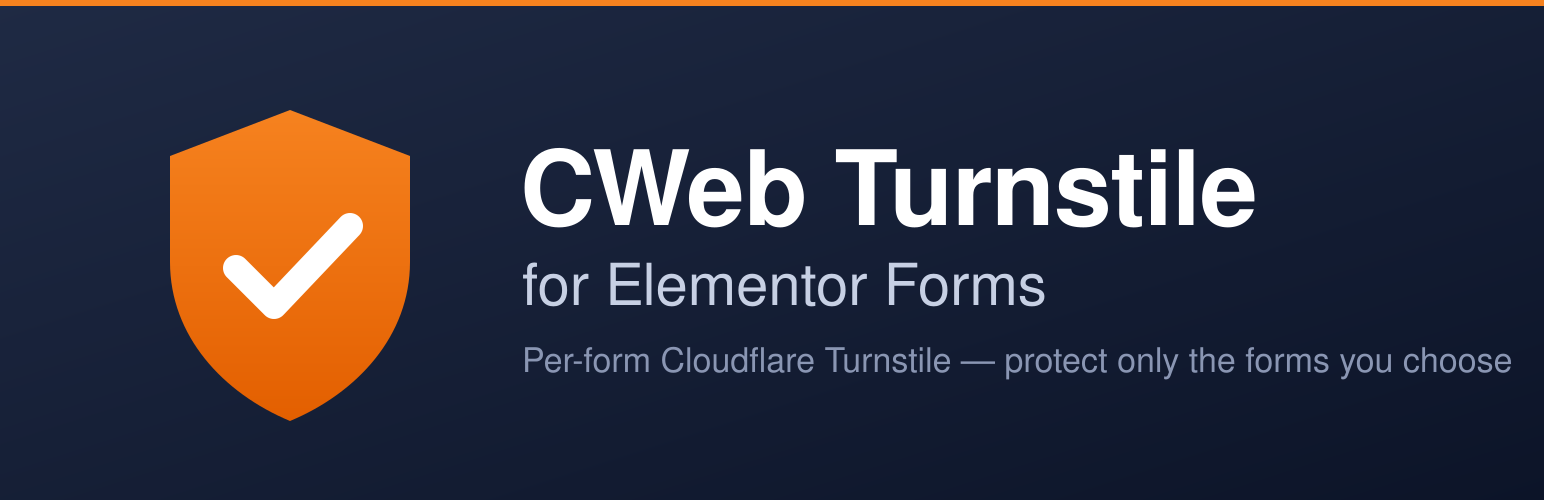
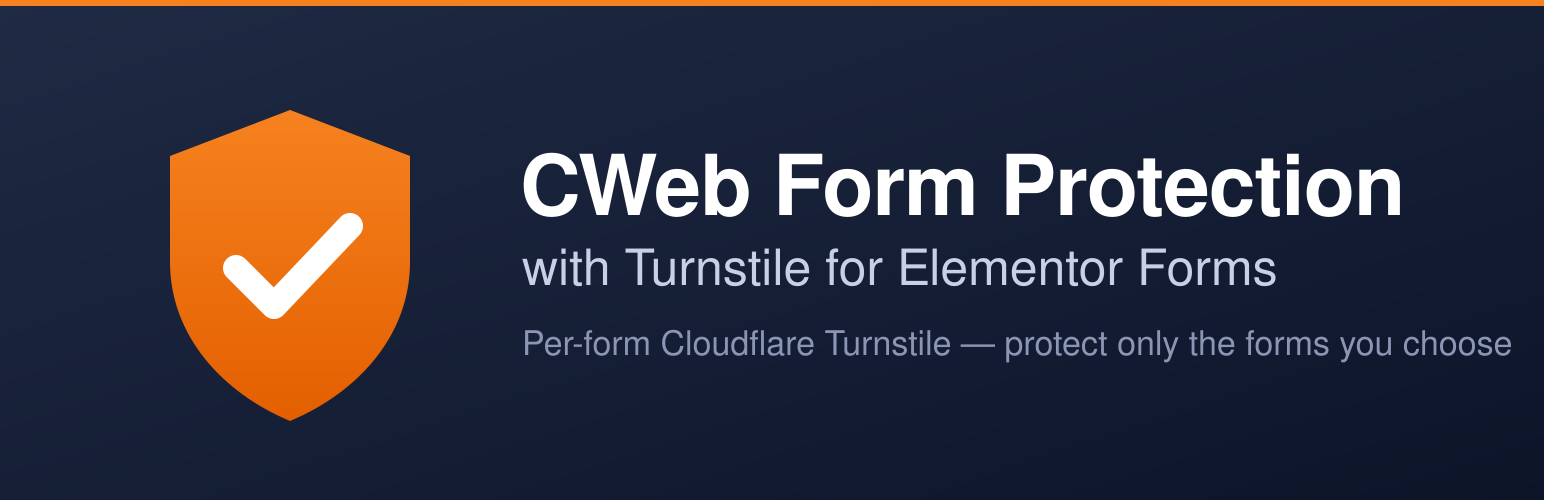
refactor: rename to "CWeb Form Protection with Turnstile for Elementor Forms"
WordPress.org pre-review (AUTOPREREVIEW) flagged the plugin name for leading
with the "Turnstile" trademark, which can suggest affiliation. Restructure so
the owned distinctive term leads and third-party names follow "with"/"for".

- name: CWeb Turnstile for Elementor Forms
        -> CWeb Form Protection with Turnstile for Elementor Forms
- slug / text domain / dir / main file / .pot
        -> cweb-form-protection-turnstile-elementor
- admin menu label -> "CWeb Form Protection"
- add "Requires Plugins: elementor" header (plugin/readme)
- rework WP.org banner wordmark to match the new structure

Internal CWebTS namespace and cwebts admin page slug kept (abbreviations,
outside the trademark scope). 52/52 tests pass; php -l clean.

Changed region(s): [[0.342, 0.3, 0.9326, 0.45], [0.342, 0.66, 0.9948, 0.75], [0.342, 0.48, 0.8394, 0.63]]

diff --git a/cweb-form-protection-turnstile-elementor/includes/class-settings.php b/cweb-form-protection-turnstile-elementor/includes/class-settings.php
@@ -40,7 +40,7 @@ class Settings {
 			'size'                 => 'flexible',
 			'appearance'           => 'always',
 			'language'             => 'auto',
-			'error_message'        => __( 'Please confirm you are not a robot.', 'cweb-turnstile-for-elementor-forms' ),
+			'error_message'        => __( 'Please confirm you are not a robot.', 'cweb-form-protection-turnstile-elementor' ),
 			'protect_login'        => 0,
 			'protect_register'     => 0,
 			'protect_lostpassword' => 0,
@@ -153,8 +153,8 @@ class Settings {
 	 */
 	public function add_menu() {
 		add_options_page(
-			__( 'CWeb Turnstile for Elementor Forms', 'cweb-turnstile-for-elementor-forms' ),
-			__( 'CWeb Turnstile', 'cweb-turnstile-for-elementor-forms' ),
+			__( 'CWeb Form Protection with Turnstile for Elementor Forms', 'cweb-form-protection-turnstile-elementor' ),
+			__( 'CWeb Form Protection', 'cweb-form-protection-turnstile-elementor' ),
 			self::CAP,
 			self::PAGE,
 			array( $this, 'render_page' )
@@ -179,47 +179,47 @@ class Settings {
 
 		add_settings_section(
 			'cwebts_keys',
-			__( 'Cloudflare Turnstile keys', 'cweb-turnstile-for-elementor-forms' ),
+			__( 'Cloudflare Turnstile keys', 'cweb-form-protection-turnstile-elementor' ),
 			array( $this, 'section_keys_intro' ),
 			self::PAGE
 		);
 
-		add_settings_field( 'site_key', __( 'Site key', 'cweb-turnstile-for-elementor-forms' ), array( $this, 'field_site_key' ), self::PAGE, 'cwebts_keys' );
-		add_settings_field( 'secret_key', __( 'Secret key', 'cweb-turnstile-for-elementor-forms' ), array( $this, 'field_secret_key' ), self::PAGE, 'cwebts_keys' );
+		add_settings_field( 'site_key', __( 'Site key', 'cweb-form-protection-turnstile-elementor' ), array( $this, 'field_site_key' ), self::PAGE, 'cwebts_keys' );
+		add_settings_field( 'secret_key', __( 'Secret key', 'cweb-form-protection-turnstile-elementor' ), array( $this, 'field_secret_key' ), self::PAGE, 'cwebts_keys' );
 
 		add_settings_section(
 			'cwebts_appearance',
-			__( 'Widget appearance', 'cweb-turnstile-for-elementor-forms' ),
+			__( 'Widget appearance', 'cweb-form-protection-turnstile-elementor' ),
 			'__return_false',
 			self::PAGE
 		);
 
-		add_settings_field( 'theme', __( 'Theme', 'cweb-turnstile-for-elementor-forms' ), array( $this, 'field_theme' ), self::PAGE, 'cwebts_appearance' );
-		add_settings_field( 'size', __( 'Size', 'cweb-turnstile-for-elementor-forms' ), array( $this, 'field_size' ), self::PAGE, 'cwebts_appearance' );
-		add_settings_field( 'appearance', __( 'Visibility', 'cweb-turnstile-for-elementor-forms' ), array( $this, 'field_appearance' ), self::PAGE, 'cwebts_appearance' );
-		add_settings_field( 'language', __( 'Language', 'cweb-turnstile-for-elementor-forms' ), array( $this, 'field_language' ), self::PAGE, 'cwebts_appearance' );
-		add_settings_field( 'error_message', __( 'Error message', 'cweb-turnstile-for-elementor-forms' ), array( $this, 'field_error_message' ), self::PAGE, 'cwebts_appearance' );
+		add_settings_field( 'theme', __( 'Theme', 'cweb-form-protection-turnstile-elementor' ), array( $this, 'field_theme' ), self::PAGE, 'cwebts_appearance' );
+		add_settings_field( 'size', __( 'Size', 'cweb-form-protection-turnstile-elementor' ), array( $this, 'field_size' ), self::PAGE, 'cwebts_appearance' );
+		add_settings_field( 'appearance', __( 'Visibility', 'cweb-form-protection-turnstile-elementor' ), array( $this, 'field_appearance' ), self::PAGE, 'cwebts_appearance' );
+		add_settings_field( 'language', __( 'Language', 'cweb-form-protection-turnstile-elementor' ), array( $this, 'field_language' ), self::PAGE, 'cwebts_appearance' );
+		add_settings_field( 'error_message', __( 'Error message', 'cweb-form-protection-turnstile-elementor' ), array( $this, 'field_error_message' ), self::PAGE, 'cwebts_appearance' );
 
 		add_settings_section(
 			'cwebts_native',
-			__( 'WordPress forms', 'cweb-turnstile-for-elementor-forms' ),
+			__( 'WordPress forms', 'cweb-form-protection-turnstile-elementor' ),
 			array( $this, 'section_native_intro' ),
 			self::PAGE
 		);
 
-		add_settings_field( 'protect_login', __( 'Login form', 'cweb-turnstile-for-elementor-forms' ), array( $this, 'field_protect_login' ), self::PAGE, 'cwebts_native' );
-		add_settings_field( 'protect_register', __( 'Registration form', 'cweb-turnstile-for-elementor-forms' ), array( $this, 'field_protect_register' ), self::PAGE, 'cwebts_native' );
-		add_settings_field( 'protect_lostpassword', __( 'Lost password form', 'cweb-turnstile-for-elementor-forms' ), array( $this, 'field_protect_lostpassword' ), self::PAGE, 'cwebts_native' );
-		add_settings_field( 'protect_comments', __( 'Comment form', 'cweb-turnstile-for-elementor-forms' ), array( $this, 'field_protect_comments' ), self::PAGE, 'cwebts_native' );
+		add_settings_field( 'protect_login', __( 'Login form', 'cweb-form-protection-turnstile-elementor' ), array( $this, 'field_protect_login' ), self::PAGE, 'cwebts_native' );
+		add_settings_field( 'protect_register', __( 'Registration form', 'cweb-form-protection-turnstile-elementor' ), array( $this, 'field_protect_register' ), self::PAGE, 'cwebts_native' );
+		add_settings_field( 'protect_lostpassword', __( 'Lost password form', 'cweb-form-protection-turnstile-elementor' ), array( $this, 'field_protect_lostpassword' ), self::PAGE, 'cwebts_native' );
+		add_settings_field( 'protect_comments', __( 'Comment form', 'cweb-form-protection-turnstile-elementor' ), array( $this, 'field_protect_comments' ), self::PAGE, 'cwebts_native' );
 
 		add_settings_section(
 			'cwebts_advanced',
-			__( 'Advanced', 'cweb-turnstile-for-elementor-forms' ),
+			__( 'Advanced', 'cweb-form-protection-turnstile-elementor' ),
 			'__return_false',
 			self::PAGE
 		);
 
-		add_settings_field( 'failure_mode', __( 'If Cloudflare is unreachable', 'cweb-turnstile-for-elementor-forms' ), array( $this, 'field_failure_mode' ), self::PAGE, 'cwebts_advanced' );
+		add_settings_field( 'failure_mode', __( 'If Cloudflare is unreachable', 'cweb-form-protection-turnstile-elementor' ), array( $this, 'field_failure_mode' ), self::PAGE, 'cwebts_advanced' );
 	}
 
 	/**
@@ -378,7 +378,7 @@ class Settings {
 	 */
 	public function handle_import() {
 		if ( ! current_user_can( self::CAP ) ) {
-			wp_die( esc_html__( 'You are not allowed to do this.', 'cweb-turnstile-for-elementor-forms' ) );
+			wp_die( esc_html__( 'You are not allowed to do this.', 'cweb-form-protection-turnstile-elementor' ) );
 		}
 
 		check_admin_referer( self::IMPORT_ACTION );
@@ -408,12 +408,12 @@ class Settings {
 		}
 		?>
 		<div class="notice notice-info inline cwebts-import">
-			<p><strong><?php esc_html_e( 'Migrating from Simple Cloudflare Turnstile?', 'cweb-turnstile-for-elementor-forms' ); ?></strong></p>
-			<p><?php esc_html_e( 'We detected keys and settings from "Simple Cloudflare Turnstile". You can copy them here so you do not have to recreate your Cloudflare keys. This does not change or deactivate the other plugin.', 'cweb-turnstile-for-elementor-forms' ); ?></p>
+			<p><strong><?php esc_html_e( 'Migrating from Simple Cloudflare Turnstile?', 'cweb-form-protection-turnstile-elementor' ); ?></strong></p>
+			<p><?php esc_html_e( 'We detected keys and settings from "Simple Cloudflare Turnstile". You can copy them here so you do not have to recreate your Cloudflare keys. This does not change or deactivate the other plugin.', 'cweb-form-protection-turnstile-elementor' ); ?></p>
 			<form action="<?php echo esc_url( admin_url( 'admin-post.php' ) ); ?>" method="post">
 				<input type="hidden" name="action" value="<?php echo esc_attr( self::IMPORT_ACTION ); ?>" />
 				<?php wp_nonce_field( self::IMPORT_ACTION ); ?>
-				<?php submit_button( __( 'Import keys & settings', 'cweb-turnstile-for-elementor-forms' ), 'secondary', 'submit', false ); ?>
+				<?php submit_button( __( 'Import keys & settings', 'cweb-form-protection-turnstile-elementor' ), 'secondary', 'submit', false ); ?>
 			</form>
 		</div>
 		<?php
@@ -434,7 +434,7 @@ class Settings {
 			wp_kses(
 				sprintf(
 					/* translators: %s: Cloudflare dashboard URL. */
-					__( 'Create a free widget and get your keys from the <a href="%s" target="_blank" rel="noopener noreferrer">Cloudflare dashboard</a>.', 'cweb-turnstile-for-elementor-forms' ),
+					__( 'Create a free widget and get your keys from the <a href="%s" target="_blank" rel="noopener noreferrer">Cloudflare dashboard</a>.', 'cweb-form-protection-turnstile-elementor' ),
 					'https://dash.cloudflare.com/?to=/:account/turnstile'
 				),
 				array(
@@ -456,7 +456,7 @@ class Settings {
 	public function section_native_intro() {
 		printf(
 			'<p>%s</p>',
-			esc_html__( 'Enable Turnstile on the built-in WordPress forms. For Elementor Pro forms, add the "Cloudflare Turnstile" field to the specific forms you want to protect.', 'cweb-turnstile-for-elementor-forms' )
+			esc_html__( 'Enable Turnstile on the built-in WordPress forms. For Elementor Pro forms, add the "Cloudflare Turnstile" field to the specific forms you want to protect.', 'cweb-form-protection-turnstile-elementor' )
 		);
 	}
 
@@ -484,20 +484,20 @@ class Settings {
 		printf(
 			'<input type="password" class="regular-text" name="%1$s[secret_key]" value="" autocomplete="new-password" placeholder="%2$s" />',
 			esc_attr( self::OPTION ),
-			esc_attr( $has_secret ? __( '••••••••  (a secret key is saved)', 'cweb-turnstile-for-elementor-forms' ) : __( 'Enter your secret key', 'cweb-turnstile-for-elementor-forms' ) )
+			esc_attr( $has_secret ? __( '••••••••  (a secret key is saved)', 'cweb-form-protection-turnstile-elementor' ) : __( 'Enter your secret key', 'cweb-form-protection-turnstile-elementor' ) )
 		);
 
 		if ( $has_secret ) {
 			printf(
 				'<p><label><input type="checkbox" name="%1$s[remove_secret]" value="1" /> %2$s</label></p><p class="description">%3$s</p>',
 				esc_attr( self::OPTION ),
-				esc_html__( 'Remove the saved secret key', 'cweb-turnstile-for-elementor-forms' ),
-				esc_html__( 'Leave the field empty to keep the saved key. The secret key is never displayed.', 'cweb-turnstile-for-elementor-forms' )
+				esc_html__( 'Remove the saved secret key', 'cweb-form-protection-turnstile-elementor' ),
+				esc_html__( 'Leave the field empty to keep the saved key. The secret key is never displayed.', 'cweb-form-protection-turnstile-elementor' )
 			);
 		} else {
 			printf(
 				'<p class="description">%s</p>',
-				esc_html__( 'The secret key is stored server-side and never sent to the browser.', 'cweb-turnstile-for-elementor-forms' )
+				esc_html__( 'The secret key is stored server-side and never sent to the browser.', 'cweb-form-protection-turnstile-elementor' )
 			);
 		}
 	}
@@ -537,9 +537,9 @@ class Settings {
 		$this->render_select(
 			'theme',
 			array(
-				'auto'  => __( 'Auto', 'cweb-turnstile-for-elementor-forms' ),
-				'light' => __( 'Light', 'cweb-turnstile-for-elementor-forms' ),
-				'dark'  => __( 'Dark', 'cweb-turnstile-for-elementor-forms' ),
+				'auto'  => __( 'Auto', 'cweb-form-protection-turnstile-elementor' ),
+				'light' => __( 'Light', 'cweb-form-protection-turnstile-elementor' ),
+				'dark'  => __( 'Dark', 'cweb-form-protection-turnstile-elementor' ),
 			)
 		);
 	}
@@ -553,9 +553,9 @@ class Settings {
 		$this->render_select(
 			'size',
 			array(
-				'normal'   => __( 'Normal', 'cweb-turnstile-for-elementor-forms' ),
-				'flexible' => __( 'Flexible', 'cweb-turnstile-for-elementor-forms' ),
-				'compact'  => __( 'Compact', 'cweb-turnstile-for-elementor-forms' ),
+				'normal'   => __( 'Normal', 'cweb-form-protection-turnstile-elementor' ),
+				'flexible' => __( 'Flexible', 'cweb-form-protection-turnstile-elementor' ),
+				'compact'  => __( 'Compact', 'cweb-form-protection-turnstile-elementor' ),
 			)
 		);
 	}
@@ -569,8 +569,8 @@ class Settings {
 		$this->render_select(
 			'appearance',
 			array(
-				'always'           => __( 'Always visible', 'cweb-turnstile-for-elementor-forms' ),
-				'interaction-only' => __( 'Only when interaction is required', 'cweb-turnstile-for-elementor-forms' ),
+				'always'           => __( 'Always visible', 'cweb-form-protection-turnstile-elementor' ),
+				'interaction-only' => __( 'Only when interaction is required', 'cweb-form-protection-turnstile-elementor' ),
 			)
 		);
 	}
@@ -582,7 +582,7 @@ class Settings {
 	 */
 	public function field_language() {
 		$this->render_select( 'language' );
-		printf( '<p class="description">%s</p>', esc_html__( '"Auto" follows the visitor browser language.', 'cweb-turnstile-for-elementor-forms' ) );
+		printf( '<p class="description">%s</p>', esc_html__( '"Auto" follows the visitor browser language.', 'cweb-form-protection-turnstile-elementor' ) );
 	}
 
 	/**
@@ -621,7 +621,7 @@ class Settings {
 	 * @return void
 	 */
 	public function field_protect_login() {
-		$this->render_toggle( 'protect_login', __( 'Protect the WordPress login form.', 'cweb-turnstile-for-elementor-forms' ) );
+		$this->render_toggle( 'protect_login', __( 'Protect the WordPress login form.', 'cweb-form-protection-turnstile-elementor' ) );
 	}
 
 	/**
@@ -630,7 +630,7 @@ class Settings {
 	 * @return void
 	 */
 	public function field_protect_register() {
-		$this->render_toggle( 'protect_register', __( 'Protect the registration form.', 'cweb-turnstile-for-elementor-forms' ) );
+		$this->render_toggle( 'protect_register', __( 'Protect the registration form.', 'cweb-form-protection-turnstile-elementor' ) );
 	}
 
 	/**
@@ -639,7 +639,7 @@ class Settings {
 	 * @return void
 	 */
 	public function field_protect_lostpassword() {
-		$this->render_toggle( 'protect_lostpassword', __( 'Protect the lost password form.', 'cweb-turnstile-for-elementor-forms' ) );
+		$this->render_toggle( 'protect_lostpassword', __( 'Protect the lost password form.', 'cweb-form-protection-turnstile-elementor' ) );
 	}
 
 	/**
@@ -648,7 +648,7 @@ class Settings {
 	 * @return void
 	 */
 	public function field_protect_comments() {
-		$this->render_toggle( 'protect_comments', __( 'Protect the comment form.', 'cweb-turnstile-for-elementor-forms' ) );
+		$this->render_toggle( 'protect_comments', __( 'Protect the comment form.', 'cweb-form-protection-turnstile-elementor' ) );
 	}
 
 	/**
@@ -660,13 +660,13 @@ class Settings {
 		$this->render_select(
 			'failure_mode',
 			array(
-				'block' => __( 'Block the submission (more secure, default)', 'cweb-turnstile-for-elementor-forms' ),
-				'allow' => __( 'Allow the submission (more available)', 'cweb-turnstile-for-elementor-forms' ),
+				'block' => __( 'Block the submission (more secure, default)', 'cweb-form-protection-turnstile-elementor' ),
+				'allow' => __( 'Allow the submission (more available)', 'cweb-form-protection-turnstile-elementor' ),
 			)
 		);
 		printf(
 			'<p class="description">%s</p>',
-			esc_html__( 'Only applies when Cloudflare cannot be reached (network error or timeout). Invalid or missing tokens are always blocked.', 'cweb-turnstile-for-elementor-forms' )
+			esc_html__( 'Only applies when Cloudflare cannot be reached (network error or timeout). Invalid or missing tokens are always blocked.', 'cweb-form-protection-turnstile-elementor' )
 		);
 	}
 
@@ -681,7 +681,7 @@ class Settings {
 		}
 		?>
 		<div class="wrap cwebts-settings">
-			<h1><?php echo esc_html__( 'CWeb Turnstile for Elementor Forms', 'cweb-turnstile-for-elementor-forms' ); ?></h1>
+			<h1><?php echo esc_html__( 'CWeb Form Protection with Turnstile for Elementor Forms', 'cweb-form-protection-turnstile-elementor' ); ?></h1>
 			<?php
 			// phpcs:ignore WordPress.Security.NonceVerification.Recommended -- Read-only success notice after a nonce-checked redirect.
 			if ( isset( $_GET['cwebts_imported'] ) ) {
@@ -691,7 +691,7 @@ class Settings {
 					esc_html(
 						sprintf(
 							/* translators: %d: number of imported settings. */
-							_n( '%d setting was imported from Simple Cloudflare Turnstile.', '%d settings were imported from Simple Cloudflare Turnstile.', $imported, 'cweb-turnstile-for-elementor-forms' ),
+							_n( '%d setting was imported from Simple Cloudflare Turnstile.', '%d settings were imported from Simple Cloudflare Turnstile.', $imported, 'cweb-form-protection-turnstile-elementor' ),
 							$imported
 						)
 					)
@@ -727,9 +727,9 @@ class Settings {
 
 		printf(
 			'<div class="notice notice-warning"><p>%s <a href="%s">%s</a></p></div>',
-			esc_html__( 'CWeb Turnstile for Elementor Forms is active but no keys are configured yet, so no form is protected.', 'cweb-turnstile-for-elementor-forms' ),
+			esc_html__( 'CWeb Form Protection with Turnstile for Elementor Forms is active but no keys are configured yet, so no form is protected.', 'cweb-form-protection-turnstile-elementor' ),
 			esc_url( admin_url( 'options-general.php?page=' . self::PAGE ) ),
-			esc_html__( 'Add your keys', 'cweb-turnstile-for-elementor-forms' )
+			esc_html__( 'Add your keys', 'cweb-form-protection-turnstile-elementor' )
 		);
 	}
 

diff --git a/cweb-form-protection-turnstile-elementor/cweb-form-protection-turnstile-elementor.php b/cweb-form-protection-turnstile-elementor/cweb-form-protection-turnstile-elementor.php
@@ -1,16 +1,17 @@
 <?php
 /**
- * Plugin Name:       CWeb Turnstile for Elementor Forms
- * Plugin URI:        https://github.com/collectifweb/CWeb-Turnstile-for-Elementor-Forms
+ * Plugin Name:       CWeb Form Protection with Turnstile for Elementor Forms
+ * Plugin URI:        https://github.com/collectifweb/cweb-form-protection-turnstile-elementor
  * Description:       Cloudflare Turnstile for your forms, with a per-form field for Elementor Pro so you choose exactly which forms are protected.
  * Version:           1.0.0
  * Requires at least: 5.8
  * Requires PHP:      7.4
+ * Requires Plugins:  elementor
  * Author:            Collectif WEB
  * Author URI:        https://collectif-web.ca
  * License:           GPLv2 or later
  * License URI:       https://www.gnu.org/licenses/gpl-2.0.html
- * Text Domain:       cweb-turnstile-for-elementor-forms
+ * Text Domain:       cweb-form-protection-turnstile-elementor
  * Domain Path:       /languages
  *
  * Not affiliated with Cloudflare, Inc. or Elementor Ltd. "Cloudflare" and

diff --git a/cweb-form-protection-turnstile-elementor/includes/integrations/class-wp-register.php b/cweb-form-protection-turnstile-elementor/includes/integrations/class-wp-register.php
@@ -54,7 +54,7 @@ class WP_Register extends Abstract_Integration {
 		}
 
 		if ( ! $this->passes() ) {
-			$errors->add( 'cwebts_failed', '<strong>' . esc_html__( 'Error:', 'cweb-turnstile-for-elementor-forms' ) . '</strong> ' . esc_html( $this->settings->get_error_message() ) );
+			$errors->add( 'cwebts_failed', '<strong>' . esc_html__( 'Error:', 'cweb-form-protection-turnstile-elementor' ) . '</strong> ' . esc_html( $this->settings->get_error_message() ) );
 		}
 
 		return $errors;

diff --git a/cweb-form-protection-turnstile-elementor/includes/integrations/class-wp-lost-password.php b/cweb-form-protection-turnstile-elementor/includes/integrations/class-wp-lost-password.php
@@ -54,7 +54,7 @@ class WP_Lost_Password extends Abstract_Integration {
 		}
 
 		if ( ! $this->passes() ) {
-			$errors->add( 'cwebts_failed', '<strong>' . esc_html__( 'Error:', 'cweb-turnstile-for-elementor-forms' ) . '</strong> ' . esc_html( $this->settings->get_error_message() ) );
+			$errors->add( 'cwebts_failed', '<strong>' . esc_html__( 'Error:', 'cweb-form-protection-turnstile-elementor' ) . '</strong> ' . esc_html( $this->settings->get_error_message() ) );
 		}
 	}
 }

diff --git a/cweb-form-protection-turnstile-elementor/includes/class-plugin.php b/cweb-form-protection-turnstile-elementor/includes/class-plugin.php
@@ -112,7 +112,7 @@ class Plugin {
 	 */
 	public function add_settings_link( $links ) {
 		$url  = admin_url( 'options-general.php?page=cwebts' );
-		$link = '<a href="' . esc_url( $url ) . '">' . esc_html__( 'Settings', 'cweb-turnstile-for-elementor-forms' ) . '</a>';
+		$link = '<a href="' . esc_url( $url ) . '">' . esc_html__( 'Settings', 'cweb-form-protection-turnstile-elementor' ) . '</a>';
 		array_unshift( $links, $link );
 
 		return $links;

diff --git a/cweb-form-protection-turnstile-elementor/includes/integrations/class-wp-login.php b/cweb-form-protection-turnstile-elementor/includes/integrations/class-wp-login.php
@@ -67,7 +67,7 @@ class WP_Login extends Abstract_Integration {
 		if ( ! $this->passes() ) {
 			return new \WP_Error(
 				'cwebts_failed',
-				'<strong>' . esc_html__( 'Error:', 'cweb-turnstile-for-elementor-forms' ) . '</strong> ' . esc_html( $this->settings->get_error_message() )
+				'<strong>' . esc_html__( 'Error:', 'cweb-form-protection-turnstile-elementor' ) . '</strong> ' . esc_html( $this->settings->get_error_message() )
 			);
 		}
 

diff --git a/cweb-form-protection-turnstile-elementor/includes/integrations/class-wp-comments.php b/cweb-form-protection-turnstile-elementor/includes/integrations/class-wp-comments.php
@@ -60,7 +60,7 @@ class WP_Comments extends Abstract_Integration {
 		if ( ! $this->passes() ) {
 			wp_die(
 				esc_html( $this->settings->get_error_message() ),
-				esc_html__( 'Comment Submission Failure', 'cweb-turnstile-for-elementor-forms' ),
+				esc_html__( 'Comment Submission Failure', 'cweb-form-protection-turnstile-elementor' ),
 				array(
 					'response'  => 403,
 					'back_link' => true,

diff --git a/tests/bootstrap.php b/tests/bootstrap.php
@@ -240,7 +240,7 @@ function __( $text, $domain = 'default' ) {
 	return $text;
 }
 
-$cwebts_plugin_dir = dirname( __DIR__ ) . '/cweb-turnstile-for-elementor-forms';
+$cwebts_plugin_dir = dirname( __DIR__ ) . '/cweb-form-protection-turnstile-elementor';
 require_once $cwebts_plugin_dir . '/includes/class-settings.php';
 require_once $cwebts_plugin_dir . '/includes/class-verifier.php';
 

diff --git a/cweb-form-protection-turnstile-elementor/includes/elementor/class-turnstile-field.php b/cweb-form-protection-turnstile-elementor/includes/elementor/class-turnstile-field.php
@@ -83,7 +83,7 @@ class Turnstile_Field extends Field_Base {
 	 * @return string
 	 */
 	public function get_name() {
-		return esc_html__( 'Cloudflare Turnstile', 'cweb-turnstile-for-elementor-forms' );
+		return esc_html__( 'Cloudflare Turnstile', 'cweb-form-protection-turnstile-elementor' );
 	}
 
 	/**
